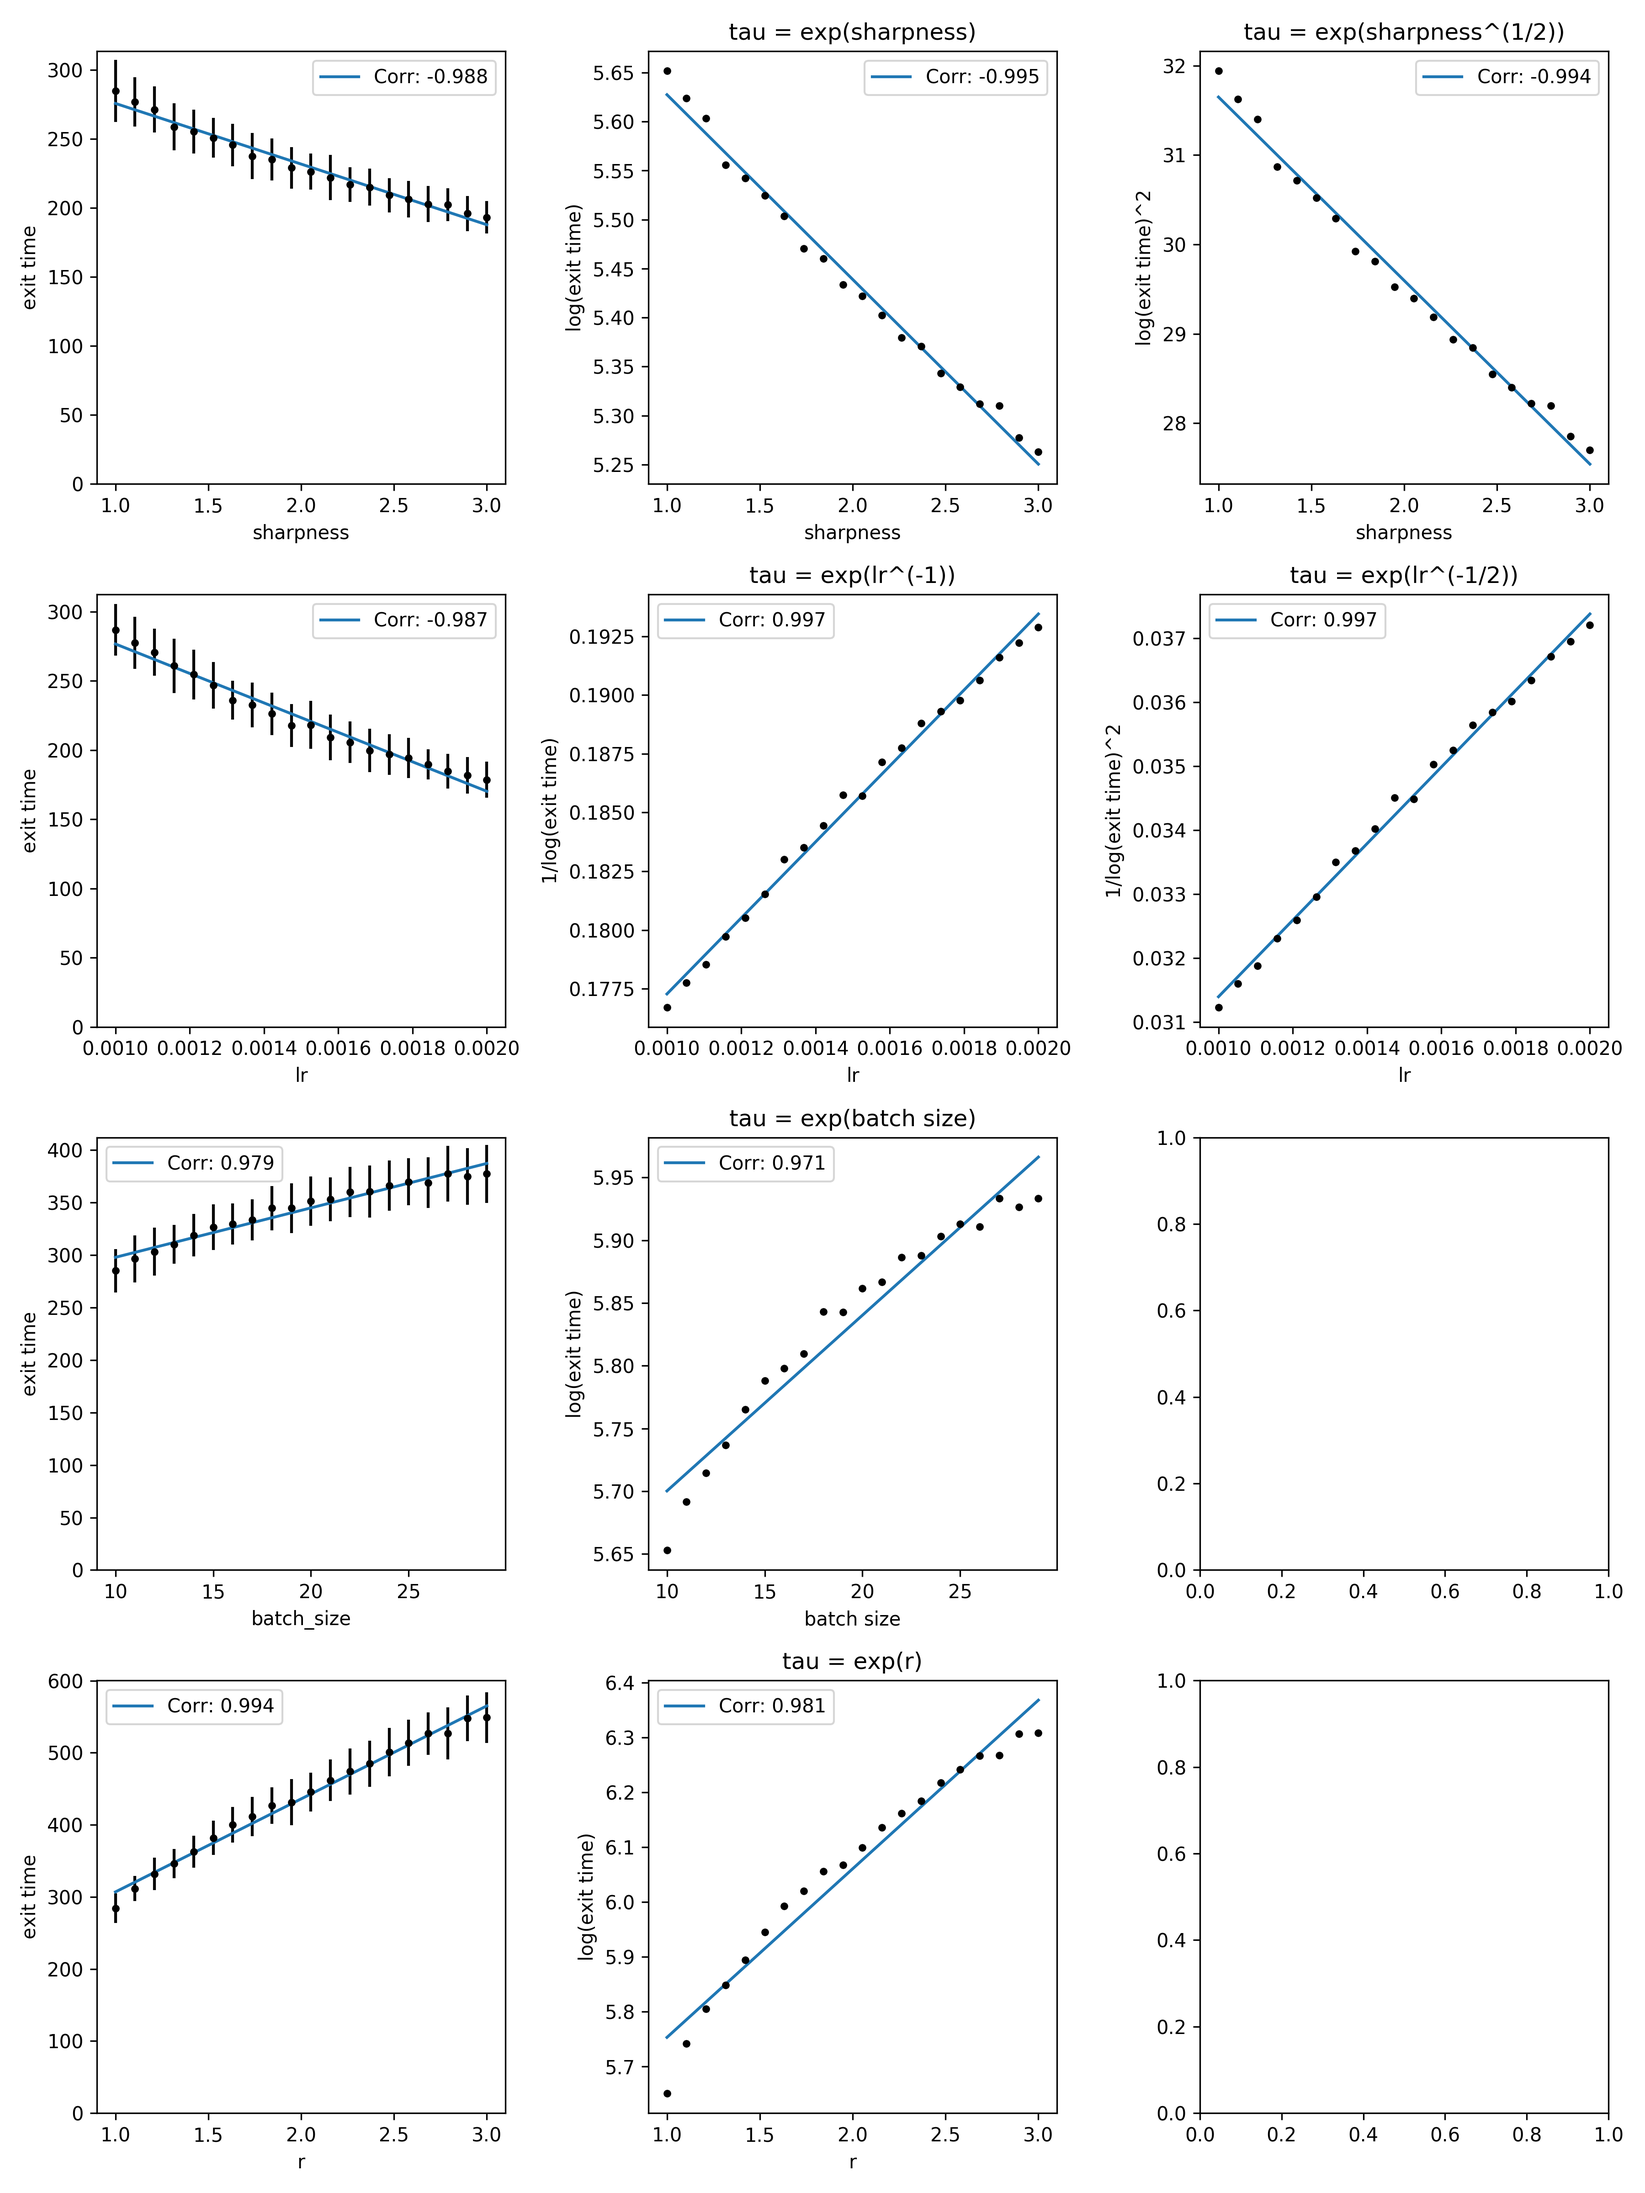
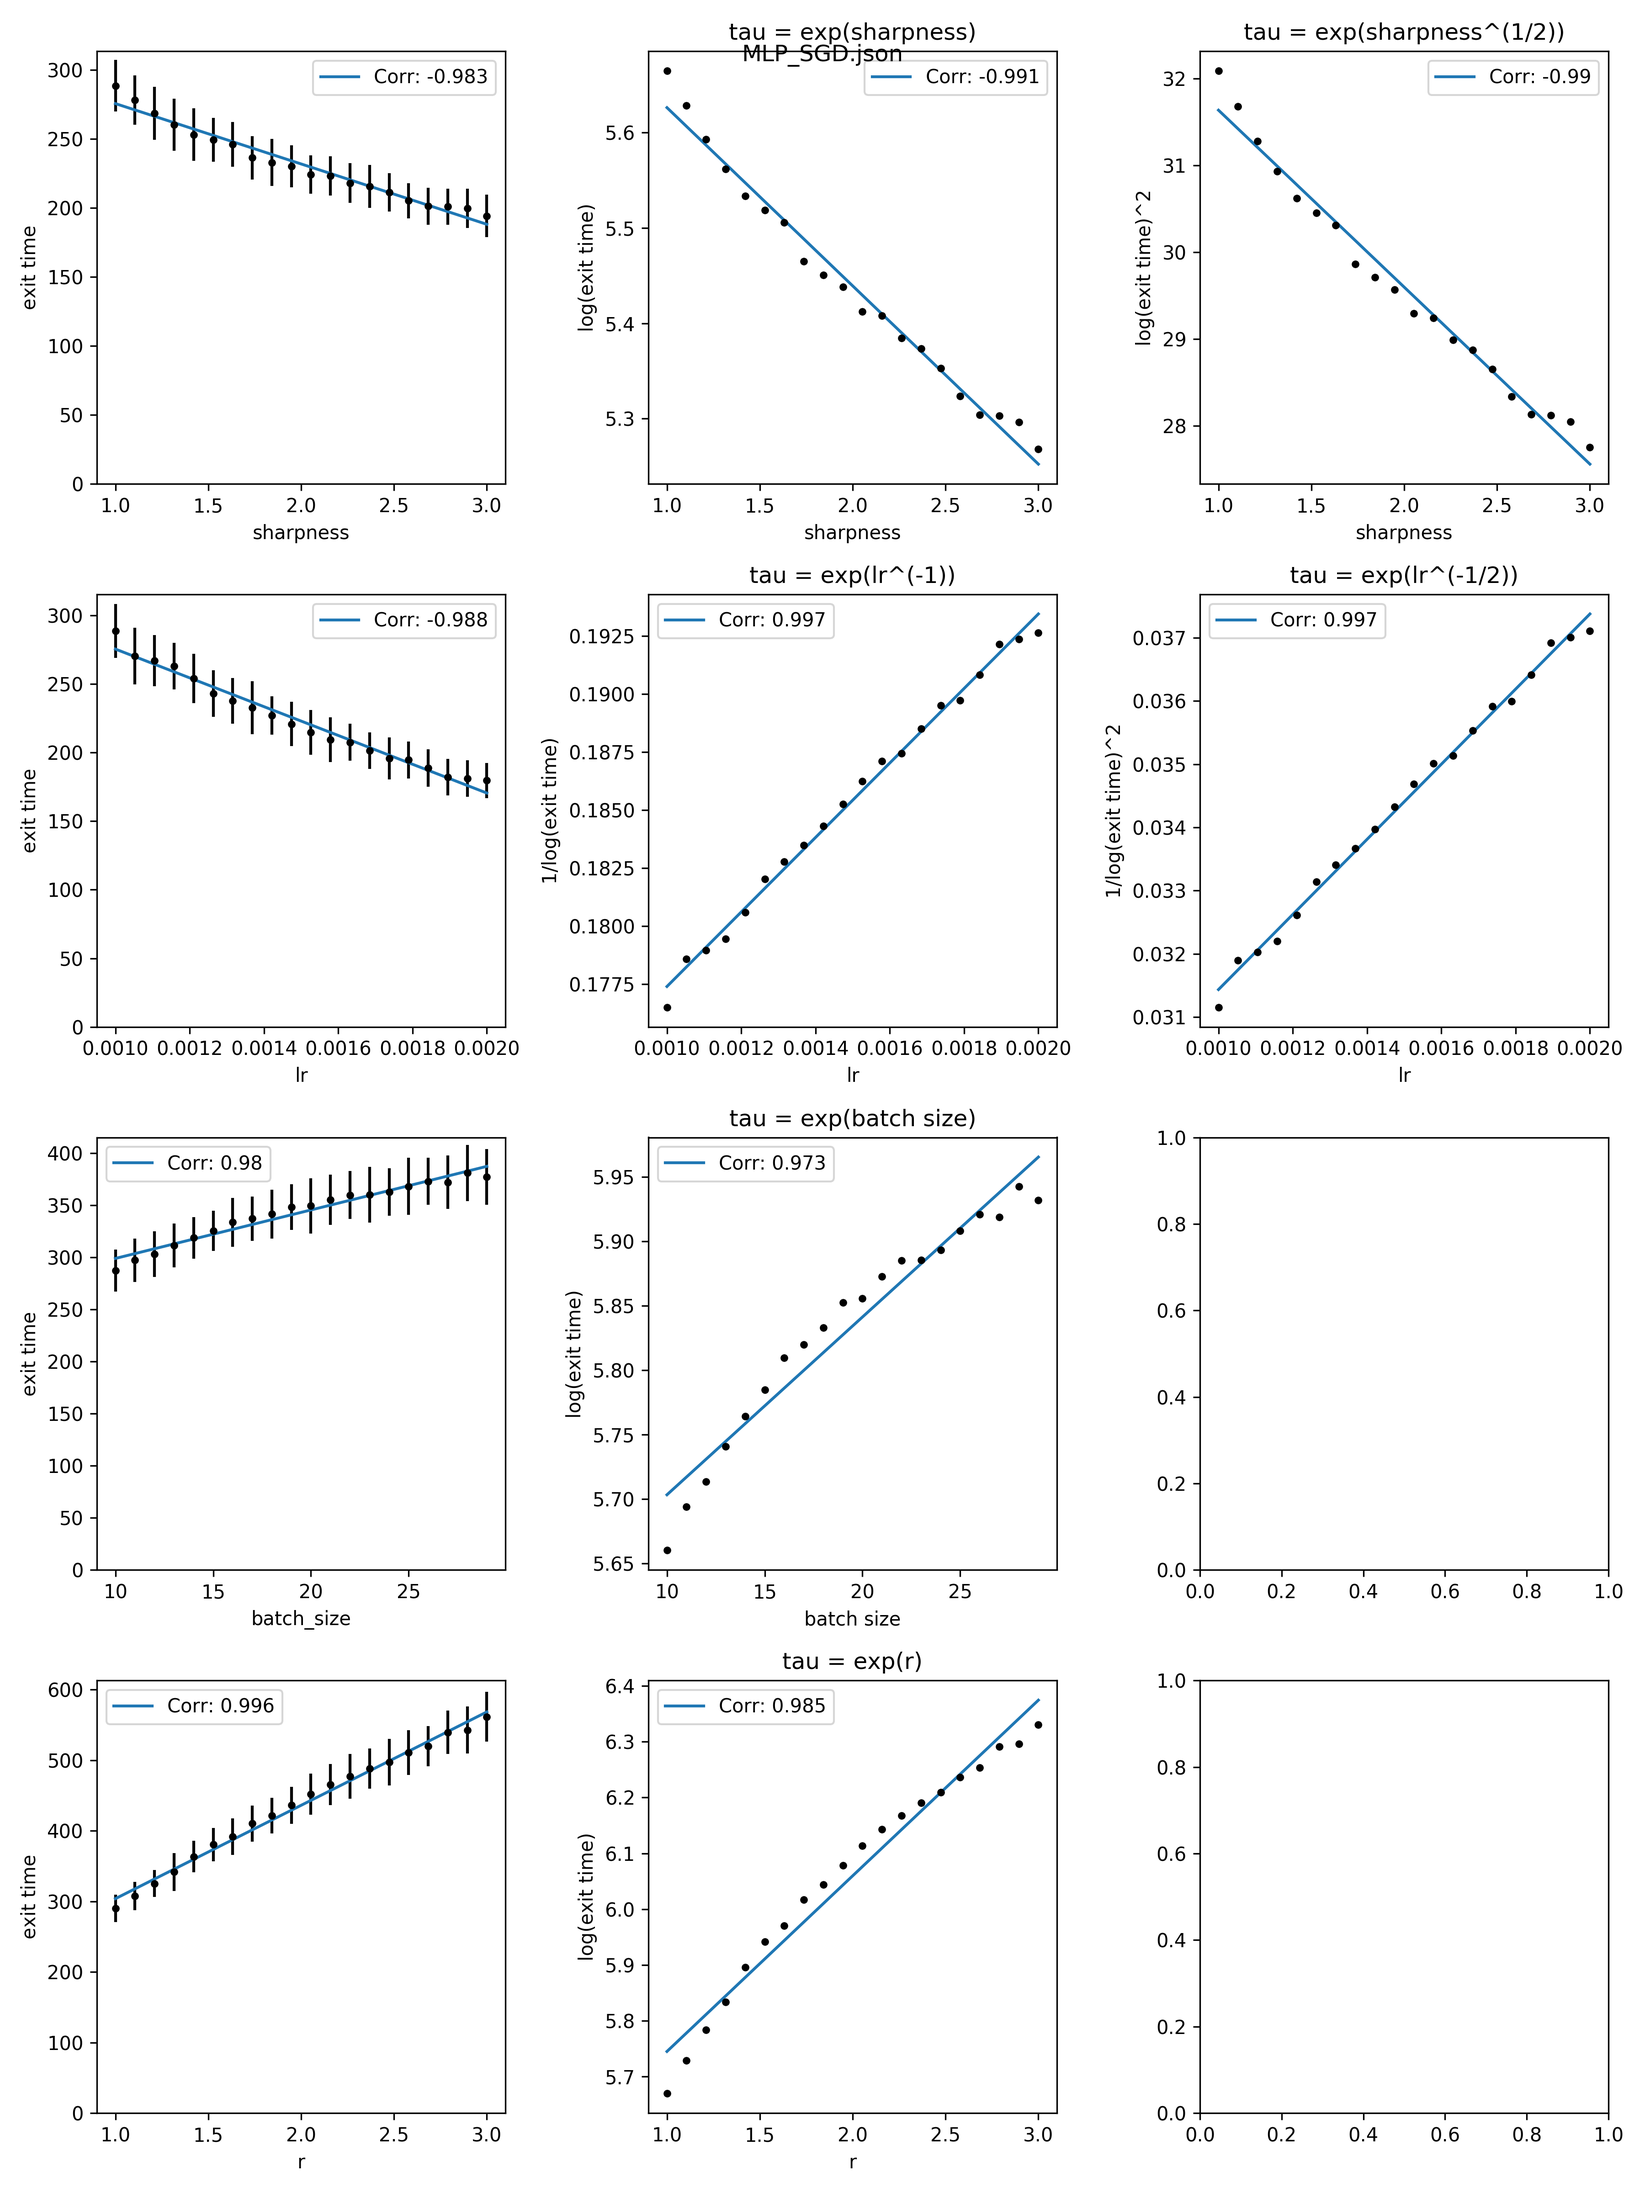
update

diff --git a/exit_time.py b/exit_time.py
@@ -152,8 +152,9 @@ def get_r_vs_exit_time(config, comm):
 
 import matplotlib.pyplot as plt
 from scipy import stats
-def draw(sharpness_results, lr_results, batch_size_results, r_results):
+def draw(config_fn, sharpness_results, lr_results, batch_size_results, r_results):
     fig, (ax1, ax2, ax3, ax4) = plt.subplots(4, 3, figsize=(12, 16))
+    plt.suptitle(config_fn)
     def draw_subfig(ax, x, y, std, h_param_name):
         coeff, _ = stats.pearsonr(x, y)
         log_coeff, _ = stats.pearsonr(x,np.log(y))
@@ -317,7 +318,8 @@ import optuna
 from mpi4py import MPI
 import json
 def main():
-    with open('MLP_SGD.json') as json_file:
+    config_fn = 'MLP_SGD.json' 
+    with open(config_fn) as json_file:
         config = json.load(json_file)
     #
     comm = MPI.COMM_WORLD
@@ -373,7 +375,7 @@ def main():
     if rank == 0:
         report("Drawing Started")
         print(end="", flush=True)
-    if rank == 0: draw(sharpness_results, lr_results, batch_size_results, r_results)
+    if rank == 0: draw(config_fn, sharpness_results, lr_results, batch_size_results, r_results)
     if rank == 0:
         report("Done")
         print(end="", flush=True)
